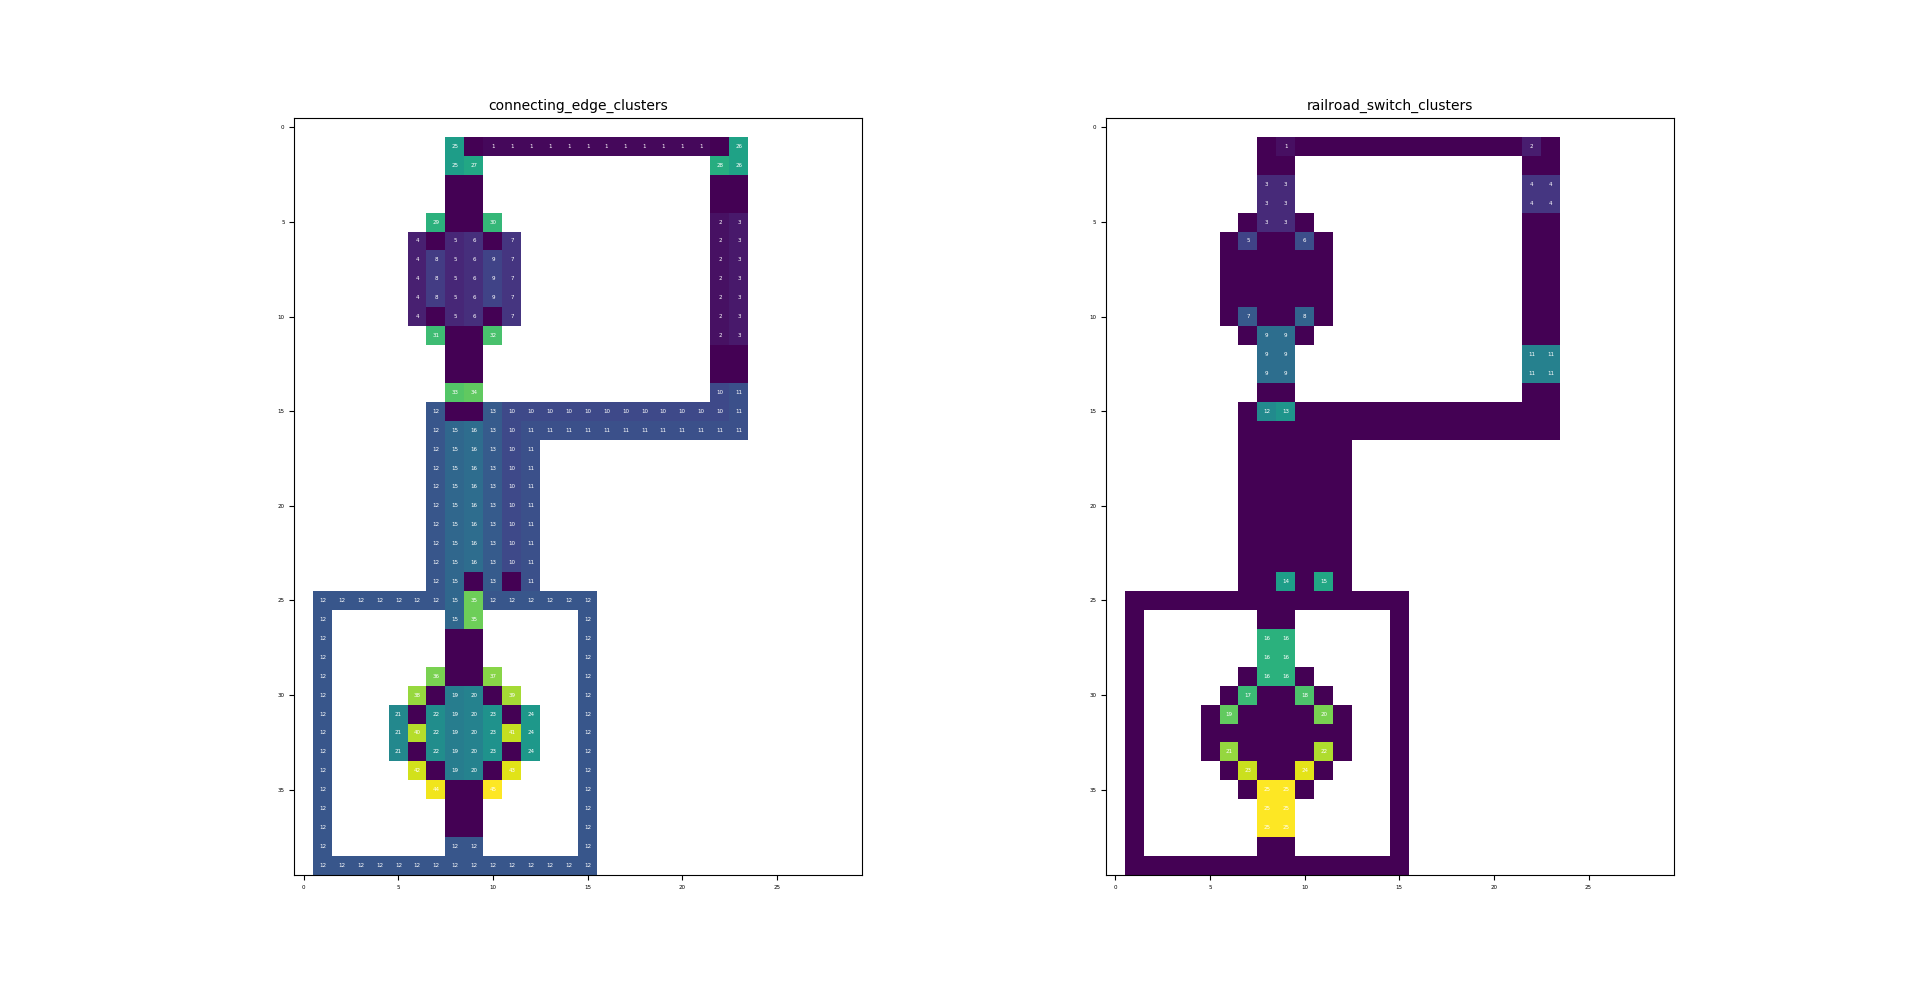
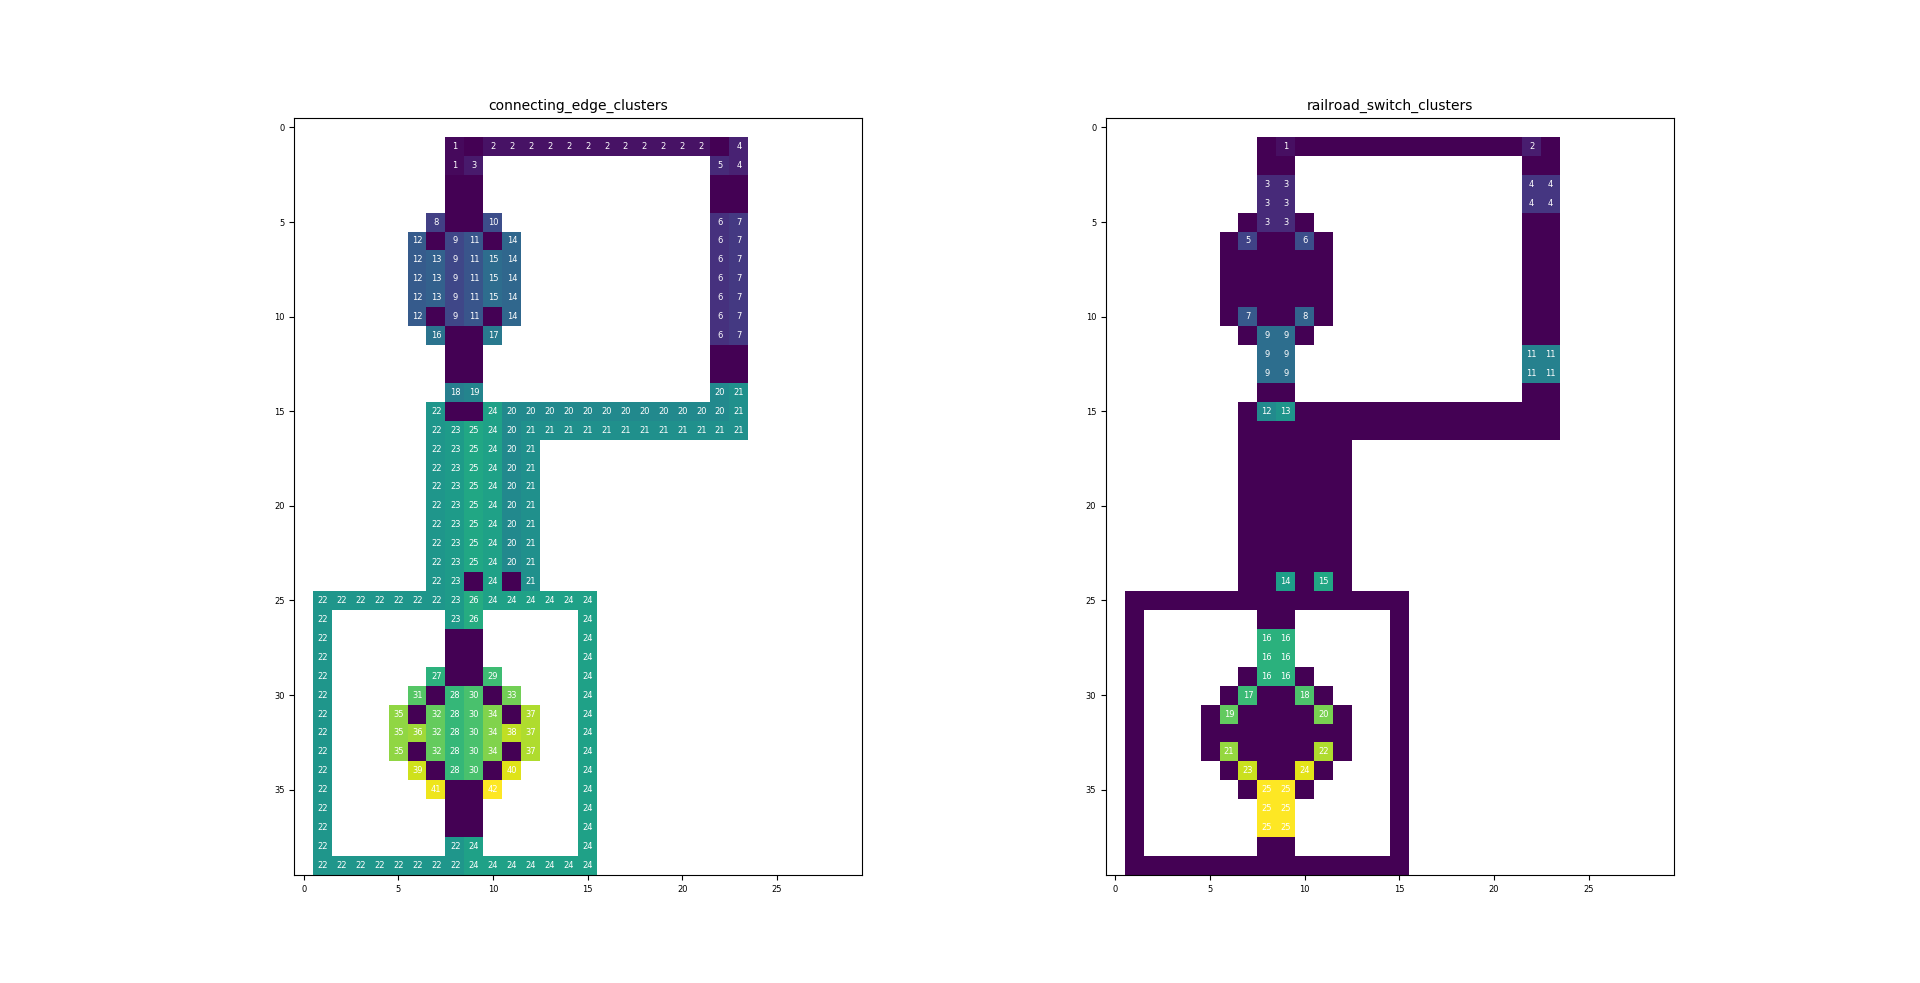
fixed

Changed region(s): [[0.1562, 0.2136, 0.4062, 0.9156], [0.3438, 0.1221, 0.4062, 0.1831], [0.2188, 0.1221, 0.25, 0.1831]]

diff --git a/flatland_extensions/RailroadSwitchCluster.py b/flatland_extensions/RailroadSwitchCluster.py
@@ -7,6 +7,7 @@ from flatland.core.grid.grid4_utils import get_new_position
 from flatland.envs.fast_methods import fast_count_nonzero, fast_argmax
 from matplotlib import pyplot as plt
 
+from flatland_extensions.FlatlandGraphBuilder import FlatlandGraphBuilder
 from flatland_extensions.RailroadSwitchAnalyser import RailroadSwitchAnalyser
 
 ClusterRefID = collections.namedtuple('ClusterRefID',
@@ -16,7 +17,6 @@ ClusterCellMembers = collections.namedtuple('ClusterInformation',
                                             'switch_cluster_cell_members '
                                             'connecting_edge_cluster_cell_members')
 
-#### TODO - connected edge is not correct computed --- !!!!! BUG FIX REQUIRED
 
 class RailroadSwitchCluster:
     def __init__(self, railroad_switch_analyser: RailroadSwitchAnalyser):
@@ -24,8 +24,29 @@ class RailroadSwitchCluster:
         self.env = self.railroad_switch_analyser.get_rail_env()
         self.railroad_switch_clusters = {}
         self.connecting_edge_clusters = {}
-        self._cluster_all_non_switches()
+        self._cluster_connecting_edge()
         self._cluster_all_switches()
+
+    def _cluster_connecting_edge(self):
+        self.connecting_edge_cluster_grid = np.zeros((self.env.height, self.env.width))
+
+        flatland_graph_builder = FlatlandGraphBuilder(railroad_switch_analyser=self.railroad_switch_analyser)
+        flatland_graph_builder.activate_simplified()
+        edges = flatland_graph_builder.get_edges()
+        cluster_id = 1
+        for idx_edge, edge in enumerate(edges):
+            resources = flatland_graph_builder.get_edge_resource(edge)
+            update_cluster_id = 0
+            for res in resources:
+                if res in self.railroad_switch_analyser.railroad_switches.keys():
+                    continue
+                v = self.connecting_edge_cluster_grid[res]
+                if v == 0:
+                    self.connecting_edge_cluster_grid[res] = cluster_id
+                    update_cluster_id = 1
+            if update_cluster_id == 1:
+                self.connecting_edge_clusters.update({cluster_id: resources})
+            cluster_id += update_cluster_id
 
     def get_cluster_id(self, pos: Tuple[int, int]) -> ClusterRefID:
         return ClusterRefID(switch_cluster_ref=self.railroad_switch_cluster_grid[pos],
@@ -127,58 +148,6 @@ class RailroadSwitchCluster:
                     pos_data.append(working_position)
                     self.railroad_switch_clusters.update({root: pos_data})
 
-    def _cluster_all_non_switches(self):
-        info_image = np.zeros((self.env.height, self.env.width))
-        for h in range(self.env.height):
-            for w in range(self.env.width):
-                # look one step forward
-                if self.env.rail.grid[h][w] > 0:
-                    info_image[(h, w)] = 1
-
-        for key in self.railroad_switch_analyser.railroad_switches.keys():
-            info_image[key] = 0
-        for key in self.railroad_switch_analyser.railroad_switch_neighbours.keys():
-            info_image[key] = 0
-
-        # build clusters
-        self._find_connected_clusters_and_label(info_image)
-        self.connecting_edge_cluster_grid = self.railroad_switch_cluster_grid.copy()
-        self.connecting_edge_clusters = self.railroad_switch_clusters.copy()
-
-        data2upate = []
-        updatedEdge = []
-        for edge in self.railroad_switch_analyser.railroad_switch_neighbours.keys():
-            for idir in range(4):
-                possible_transitions = self.env.rail.get_transitions(*edge, idir)
-                for new_direction in range(4):
-                    if possible_transitions[new_direction] == 1:
-                        new_position = get_new_position(edge, new_direction)
-                        cid = self.connecting_edge_cluster_grid[new_position]
-                        if (cid > 0) and (not (edge in updatedEdge)):
-                            data2upate.append([edge, cid])
-                            updatedEdge.append(edge)
-
-        for d in data2upate:
-            pos = d[0]
-            cid = d[1]
-            self.connecting_edge_cluster_grid[pos] = cid
-            c = self.connecting_edge_clusters.get(cid, [])
-            c.append(pos)
-            self.connecting_edge_clusters.update({cid: c})
-
-        info_image = np.zeros((self.env.height, self.env.width))
-        for e in self.railroad_switch_analyser.railroad_switch_neighbours.keys():
-            if not (e in updatedEdge):
-                info_image[e] = 1
-        self._find_connected_clusters_and_label(info_image)
-        connecting_edge_cluster2 = self.railroad_switch_clusters.copy()
-        for ce in connecting_edge_cluster2.keys():
-            es = connecting_edge_cluster2.get(ce)
-            m = np.max(self.connecting_edge_cluster_grid) + 1
-            self.connecting_edge_clusters.update({m: es})
-            for e in es:
-                self.connecting_edge_cluster_grid[e] = m
-
     def _cluster_all_switches(self):
         # mark railroad switches
         info_image = np.zeros((self.env.height, self.env.width))
@@ -214,7 +183,7 @@ class RailroadSwitchCluster:
         print('connecting_edge_clusters')
         print(self.connecting_edge_clusters)
 
-        plt.rc('font', size=4)
+        plt.rc('font', size=6)
         ax1 = plt.subplot(1, 2, 1)
         plt.imshow(connecting_edge_cluster_grid_image)
         for (j, i), label in np.ndenumerate(self.connecting_edge_cluster_grid):

diff --git a/flatland_extensions/FlatlandGraphBuilder.py b/flatland_extensions/FlatlandGraphBuilder.py
@@ -1,5 +1,5 @@
 import copy
-from typing import Dict, Tuple
+from typing import Dict, Tuple, List
 from typing import Union
 
 import networkx as nx
@@ -8,6 +8,7 @@ import numpy as np
 from flatland.core.grid.grid4_utils import get_new_position
 from flatland.envs.fast_methods import fast_position_equal, fast_argmax
 from matplotlib import pyplot as plt
+from networkx.classes.reportviews import OutEdgeView
 
 from flatland_extensions.RailroadSwitchAnalyser import RailroadSwitchAnalyser
 
@@ -30,6 +31,9 @@ class FlatlandGraphBuilder:
 
     def get_nodes(self) -> Union[Dict[str, Tuple[int, int, float]], None]:
         return self._nodes
+
+    def get_edges(self) -> OutEdgeView:
+        return self._graph.edges
 
     def _create_full_graph(self):
         graph = nx.DiGraph()
@@ -125,6 +129,10 @@ class FlatlandGraphBuilder:
         self._ordering_edge_resources(graph)
 
         return graph, nodes, from_vertex_edge_map
+
+    def get_edge_resource(self, edge) -> List[Tuple[int, int]]:
+        edge_data = self._graph.get_edge_data(edge[0], edge[1])
+        return edge_data.get('resources')
 
     def _ordering_edge_resources(self, graph: nx.DiGraph):
         # ---------------- ordering edge resource

diff --git a/demo_flatland_railroad_cluster.py b/demo_flatland_railroad_cluster.py
@@ -8,6 +8,8 @@ flatland_resource_allocator = FlatlandResourceAllocator(env=flatland_environment
 railroad_switch_analyser = RailroadSwitchAnalyser(env=flatland_environment_helper.get_rail_env())
 railroad_switch_cluster = RailroadSwitchCluster(railroad_switch_analyser=railroad_switch_analyser)
 
+railroad_switch_cluster.do_debug_plot()
+
 agent_pos, agent_dir, agent_state, agent_target, is_agent_off_map = \
     flatland_environment_helper.get_agent_position_and_direction(handle=0)
 
@@ -15,6 +17,8 @@ agent_pos, agent_dir, agent_state, agent_target, is_agent_off_map = \
 print('Test: agent_pos', agent_pos)
 agent_pos_cluster_id = railroad_switch_cluster.get_cluster_id(agent_pos)
 agent_pos_cluster_cell_members = railroad_switch_cluster.get_cluster_cell_members(agent_pos_cluster_id)
+
+print(railroad_switch_cluster.connecting_edge_clusters)
 
 print(agent_pos_cluster_id)
 print(agent_pos_cluster_cell_members)
